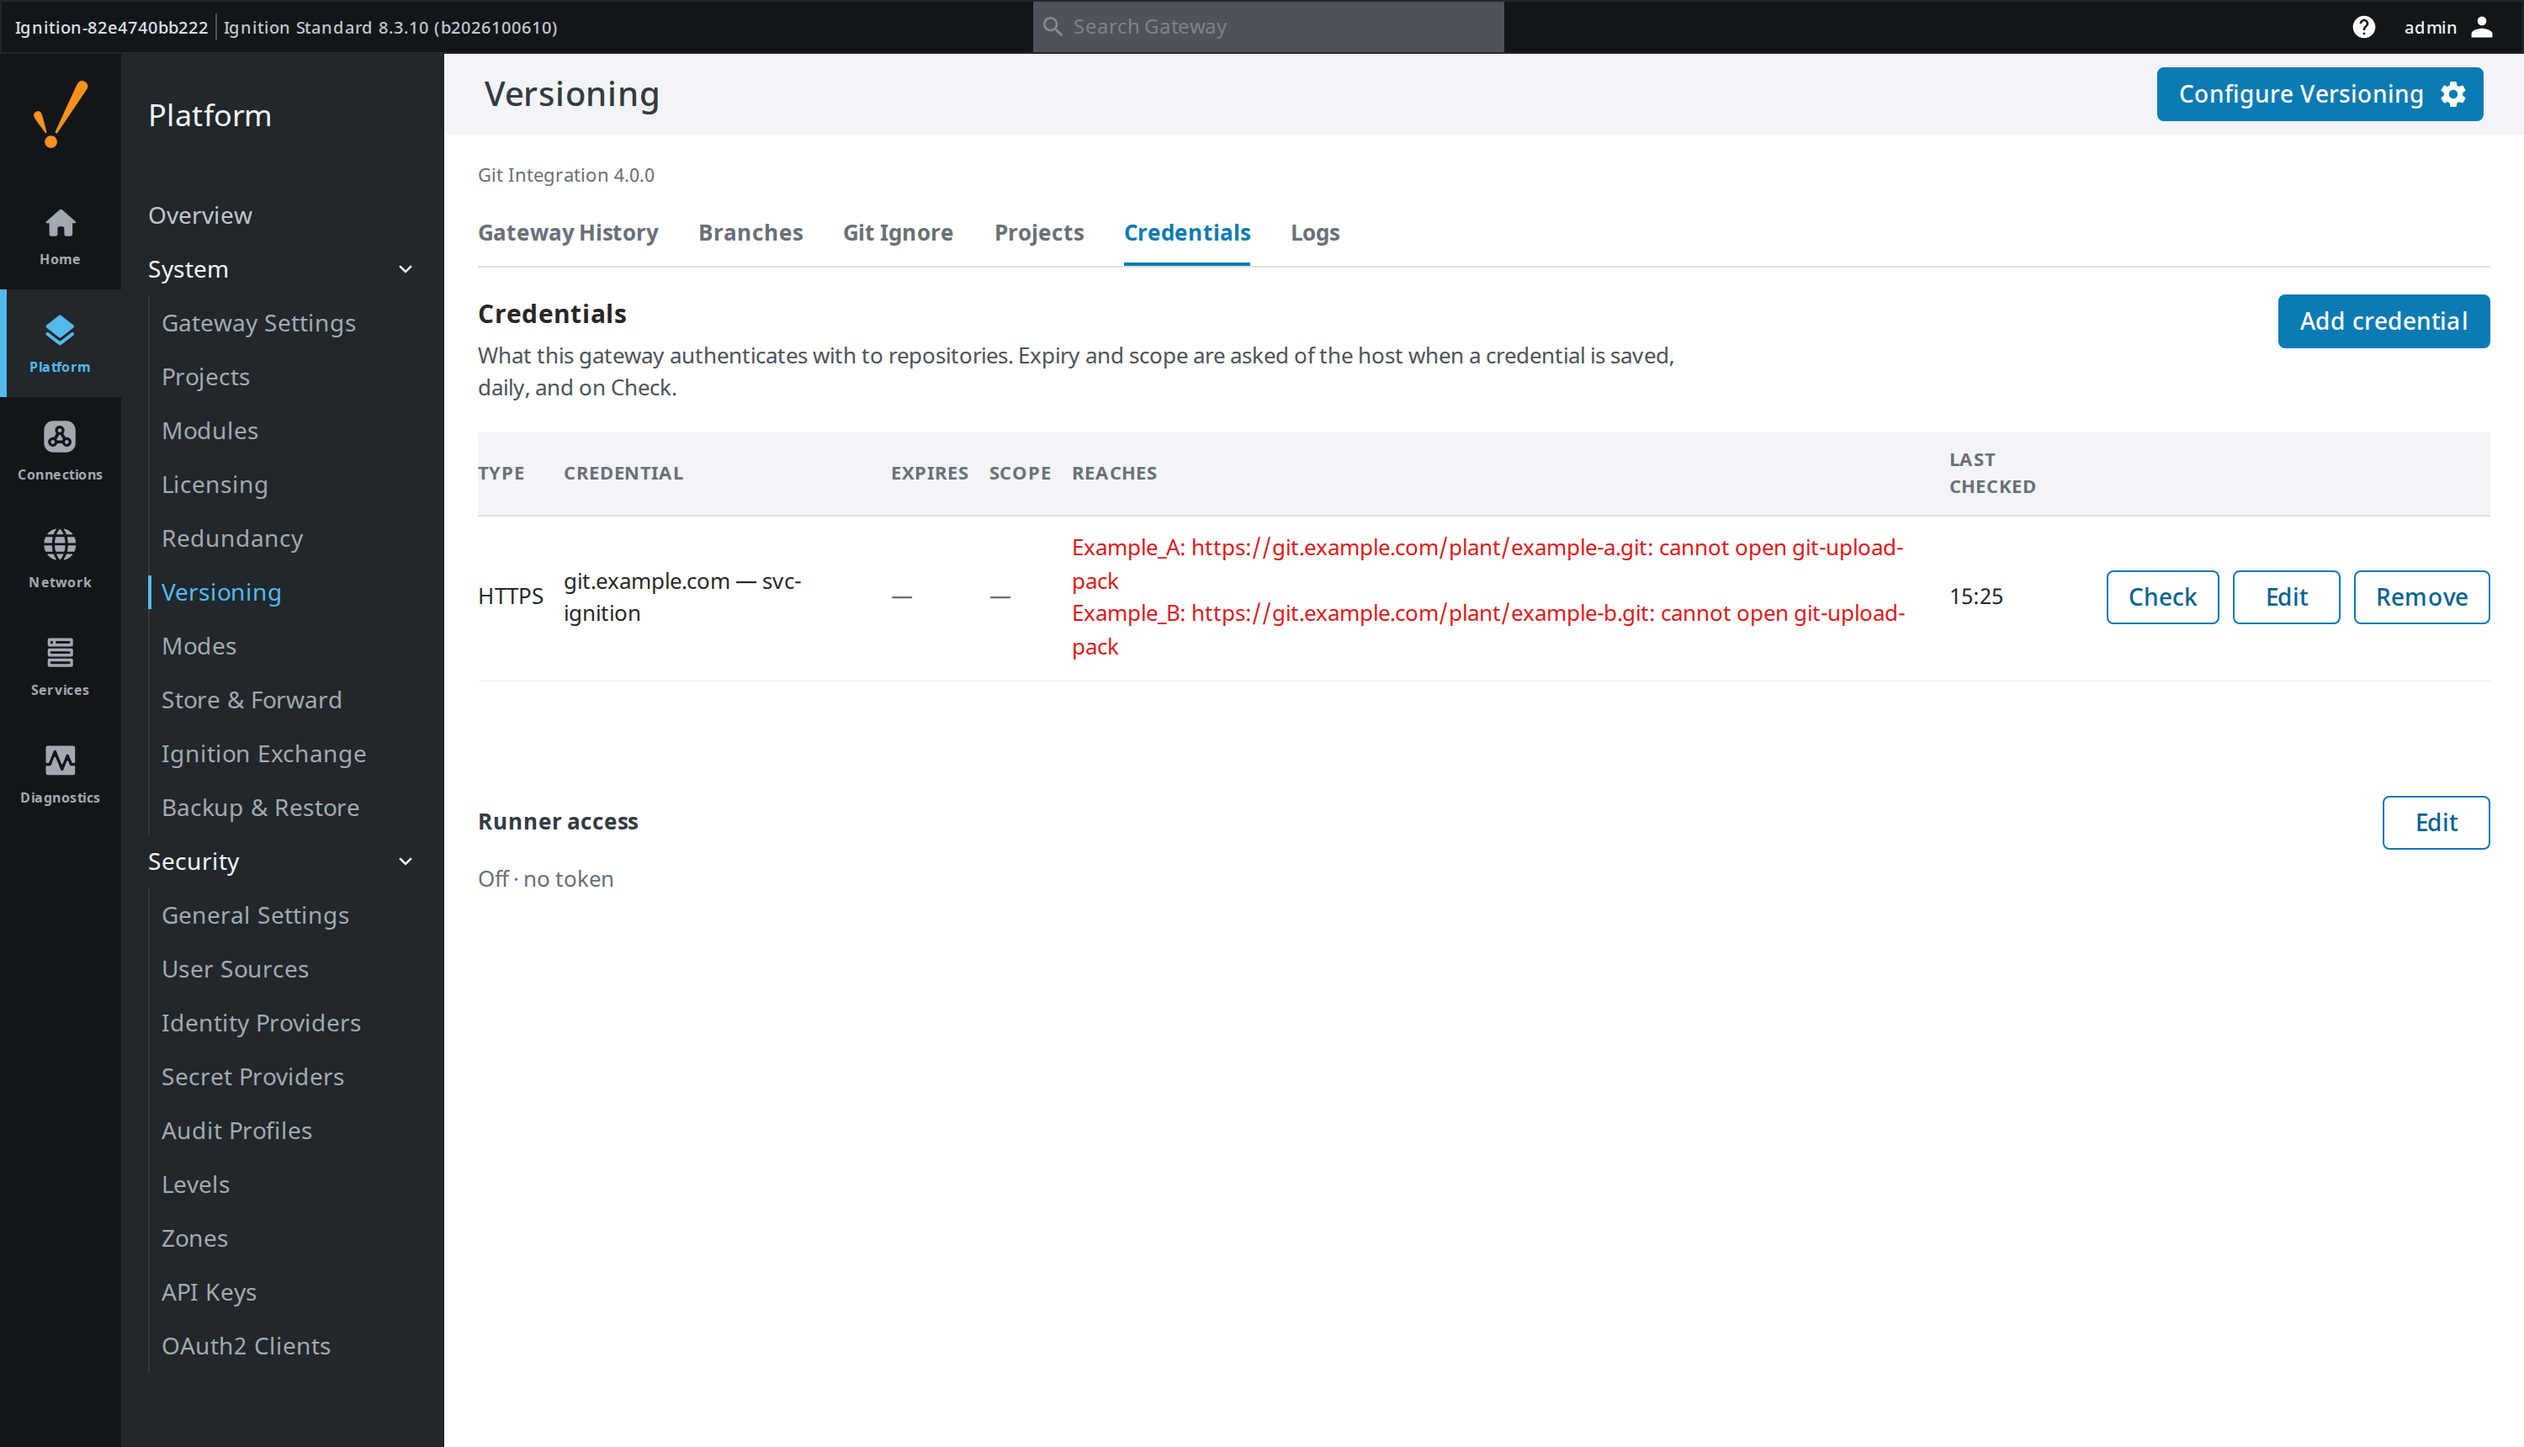
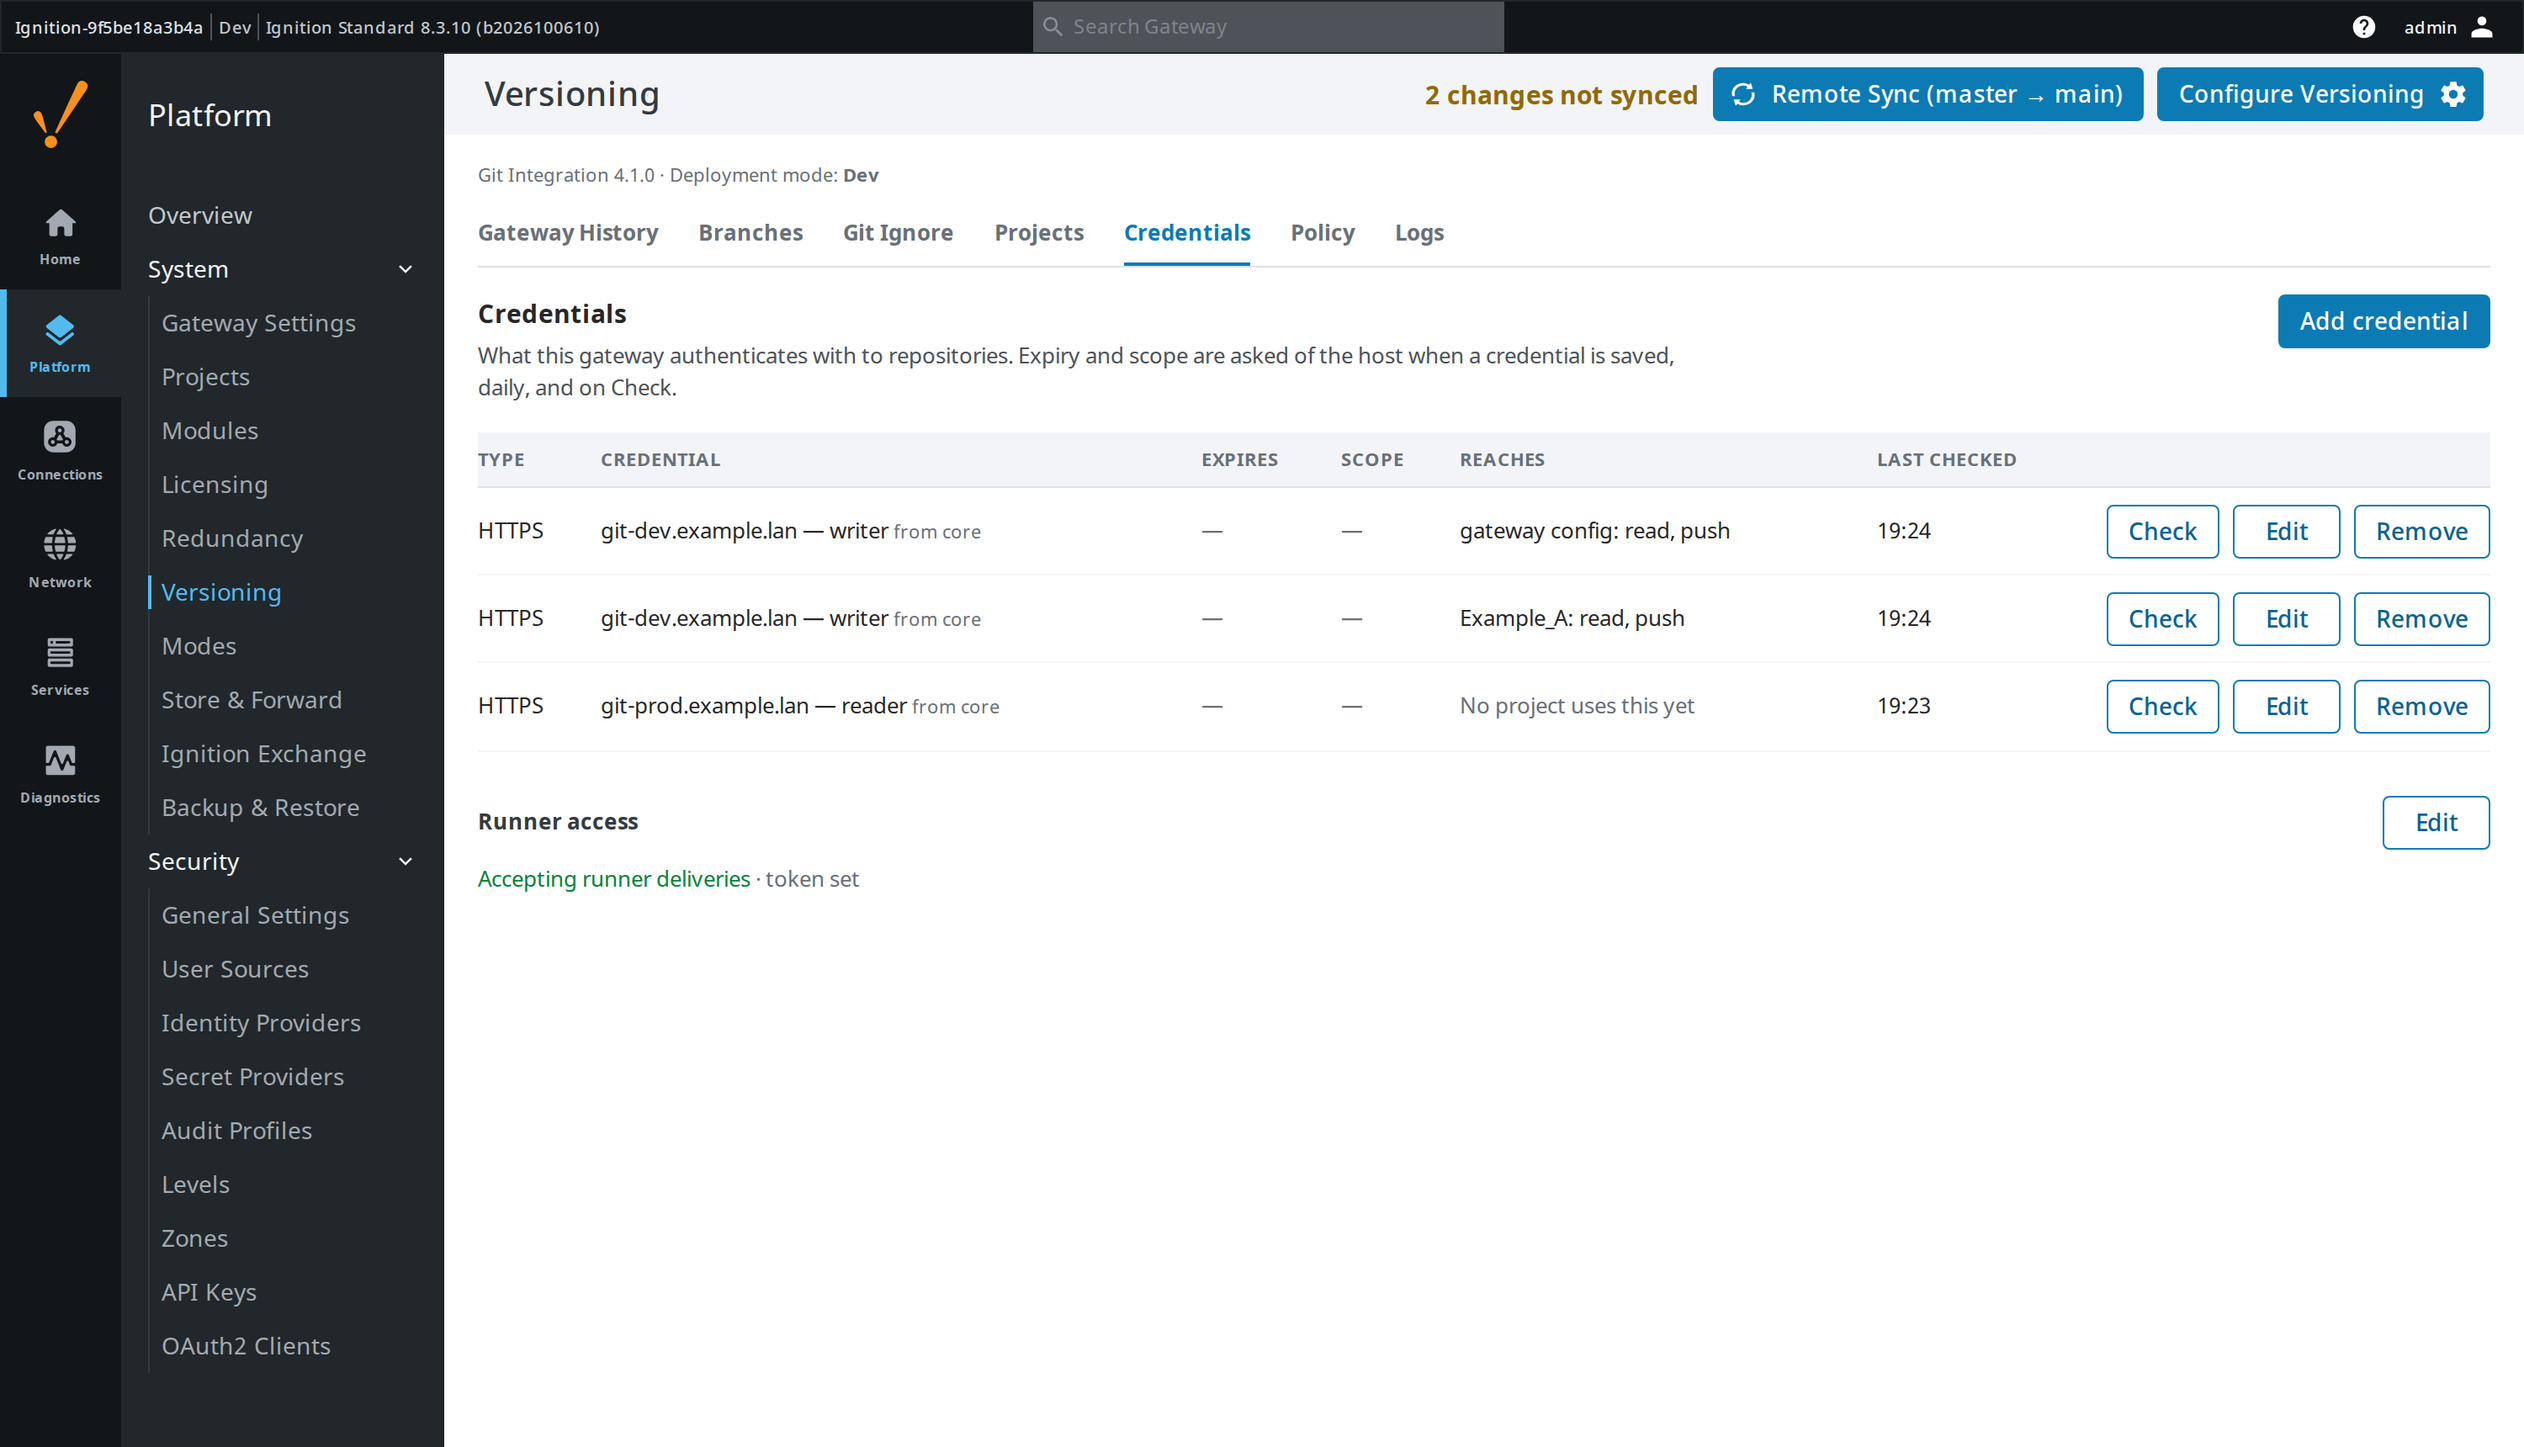
Docs: mode screenshots, Prod override from Dev by API, 4.1.0 fixes
- MODES.md step 3 said to save the Prod policy from Dev with Save to: Prod,
  but the page only offers core and the active mode; it now gives the
  resources/copy + PUT calls (tested on a rig) or a one-off restart into Prod.
- Policy tab, Save to drawer and a refused control (layout switch) in Prod;
  Credentials recaptured with a credential whose reach check succeeds.
- CHANGELOG: the fixes found live-testing 4.1.0.

diff --git a/docs/MODES.md b/docs/MODES.md
@@ -38,11 +38,15 @@ setting's value and where it comes from (`from core` or `from Prod`).
 
 The default is how earlier versions behaved: everything allowed, any host.
 
+![The Policy tab in deployment mode Prod: each setting, its value and where it comes from](images/versioning-policy.png)
+
 A refused action stays on screen, disabled, with the reason: on the page as
 text, in the Designer in the menu or button ("Checkout (off in deployment mode
 Prod)"). The gateway refuses it either way — a route answers 403 and the
 Designer shows the message, for example *Not allowed in deployment mode Prod:
 pushing is turned off by the gateway's Git policy.*
+
+![The layout switch disabled, with the reason, in deployment mode Prod](images/versioning-policy-refused.png)
 
 ## Per-mode remotes and credentials
 
@@ -53,6 +57,8 @@ this mode uses. Each drawer shows where the value comes from now, and **Reset
 to core** deletes the mode's override. A record that exists only in the mode
 (a credential added there) is deleted by Reset, as core has nothing to fall
 back to.
+
+![The config remote's drawer: Save to core or Prod, where the value comes from, Reset to core](images/versioning-save-to.png)
 
 The same records can also be overridden from **Platform › Modes** or the
 gateway's `resources/copy` API; the module reads whichever value the active
@@ -88,9 +94,21 @@ the data directory).
    `ignition.conf` (above).
 2. On Dev (mode `Dev`): open **Policy**, leave core as it is. Configure the
    remote with a token that can push, **Save to: core**.
-3. Still on Dev, edit the policy with **Save to: Prod**: Push off, Commit from
-   the Designer off, branches and layout off, deliveries Sync — replace only,
-   allowed hosts `github.com`. Commit and push; the override is in the branch.
+3. Still on Dev, write the Prod override of the policy. The page's Save to only
+   offers core and the active mode, so use the gateway API: copy the policy into
+   Prod, then set its values — Push off, Commit from the Designer off, branches
+   and layout off, deliveries Sync — replace only, allowed hosts `github.com`.
+
+   ```text
+   POST /data/api/v1/resources/copy?resourceType=com.operametrix.ignition.git/git-policy
+        &fromName=policy&toName=policy&fromCollection=core&toCollection=Prod&signature=<sig>
+   PUT  /data/api/v1/resources/com.operametrix.ignition.git/git-policy
+        [{"name":"policy","collection":"Prod","signature":"<new sig>","config":{...}}]
+   ```
+
+   (`<sig>` from `GET /data/api/v1/resources/find/com.operametrix.ignition.git/git-policy/policy`.)
+   The config repository commits it; push, and the override is in the branch.
+   Or restart Dev into Prod once and use **Save to: Prod** on the Policy tab.
 4. On Prod (mode `Prod`): Sync — replace from that branch brings the policy in.
    Configure the remote with a read-only token, **Save to: Prod**, ideally as a
    Secret Provider reference.

diff --git a/CHANGELOG.md b/CHANGELOG.md
@@ -34,6 +34,13 @@ upstream's; everything below is this fork.
 - A credential is no longer sent to a host other than its own: the gateway remote's credential in
   Combined to a Designer-added remote elsewhere, an HTTPS credential to a host its host field does
   not name, or a saved credential tested against a URL on another host.
+- The credential check no longer contacts a host the Git policy does not allow, nor sends an HTTPS
+  credential to a host its host field does not name; saving the config remote checks its credential
+  at once.
+- Commit and revert emails come from the user's contact info again: on 8.3 the user-source lookup
+  read an empty legacy table, so every Designer commit had no email.
+- The Combined pull-guard refusal shows its whole file list in the Designer (the error dialog cut it
+  off). The Credentials table scrolls in place so the tab fits 1366×640.
 - A revert from the Designer is authored by the Designer user (with their email) instead of "ignition". The revert commit is rewritten in place with the same tree, parent and message, so nothing staged or dirty is touched in either layout.
 
 ## [4.0.0] - 2026-11-10

diff --git a/README.md b/README.md
@@ -101,6 +101,8 @@ credentials and deliveries can be saved for one mode only. Only the policy is
 versioned, so a Prod override written on Dev travels with the branch.
 [docs/MODES.md](docs/MODES.md) has the setup.
 
+![The Policy tab in deployment mode Prod](docs/images/versioning-policy.png)
+
 This build adds the gateway-side Versioning page, change badges, branches and
 delivery on top of upstream 2.1.0 ([CHANGELOG.md](CHANGELOG.md)). The
 Versioning page meets WCAG 2.1 AA, short of three platform controls with no
